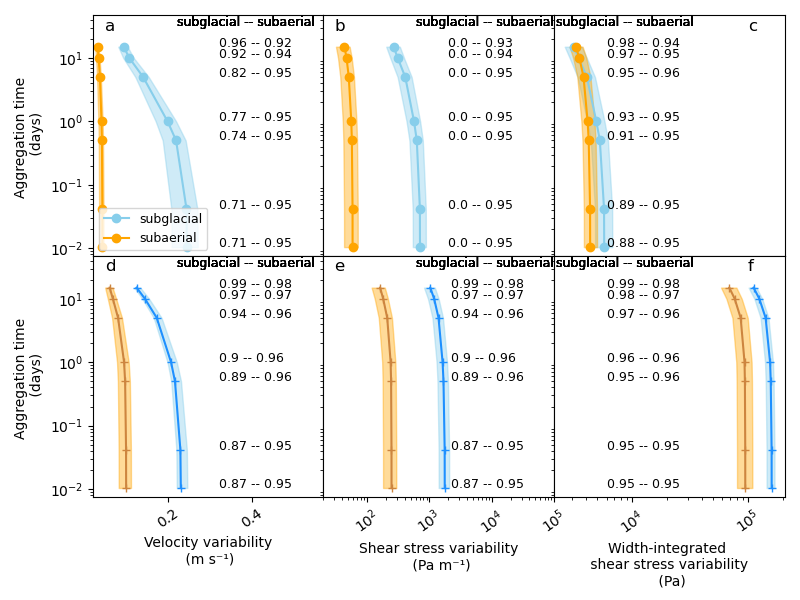
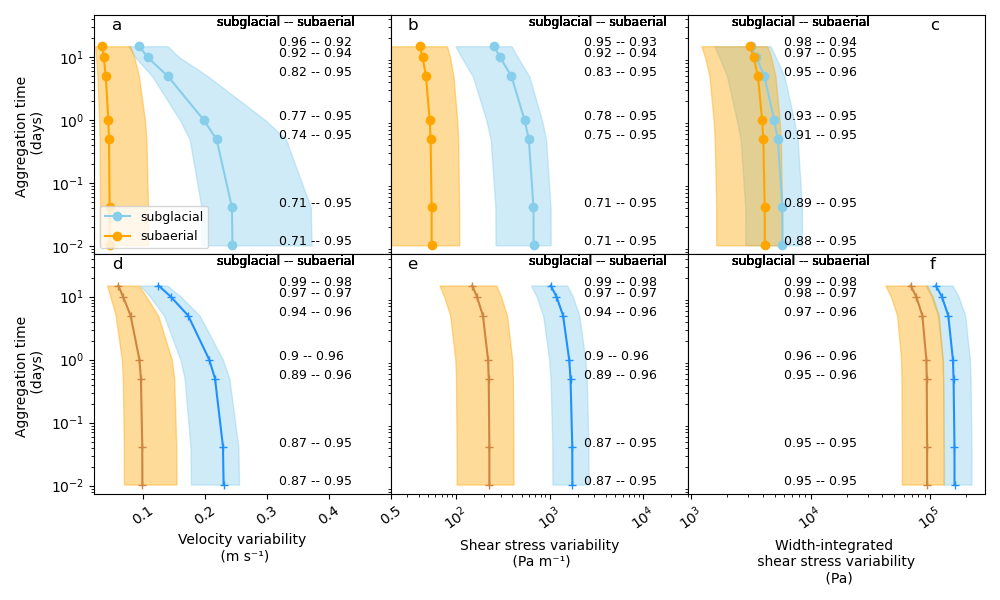
more small changes

Changed region(s): [[0.0, 0.03, 1.0, 0.99]]

diff --git a/Delaneyetal2023b.tex b/Delaneyetal2023b.tex
@@ -397,8 +397,7 @@ Yet, a range of width-integrated shear stress can occur at a given discharge (Fi
   \centering
     \includegraphics[width=0.9\linewidth]{Fig4.png}
     \caption{Variance (measured by the standard deviation) in water velocity, shear stress, and total shear stress for different time aggregations across the range of subglacial and subaerial channel shapes and friction factors. 
-    %The subglacial (blue) and subaerial (orange) systems are distinguished as are \alpine{} (a-c) and \icesheet{} (d-f).
-      Shaded areas denote the $5^{\mathrm{th}}$ and $95^{\mathrm{th}}$ quantiles of the $100$ parameter combinations tested for each of the systems (Section~\ref{sect:imp}).
+      Shaded areas denote the minimum and maximum of the $100$ parameter combinations tested for each of the systems (Section~\ref{sect:imp}).
       Solid lines denote  mean values.
       Time intervals shown with markers denote $15$\,\unit{min}, $1$\,\unit{hr}, $12$\,\unit{hr}, $1$\,\unit{d}, $5$\,\unit{d}, $10$\,\unit{d}, and $15$\,\unit{d} aggregation periods.
       Text in columns shows rank correlation between the variable and sediment discharge for the corresponding time period for the subglacial (right column) and subaerial (left column) channels.
@@ -479,7 +478,7 @@ may compound  the already stochastic nature of erosion and deposition in fluvial
 Over time scales longer than days to weeks, the glacier's sediment transport capacity reacts to the ice thickness, controlling the channel closure rate, and the surface slope of the glacier \citep[Figure~\ref{fig:multi_run}, ~ Section~\ref{sect:sub_mode}; ][]{rothlisberger1972,shreve1972,stevens2022}.
 If the glacier is in a supply-limited state, often assumed in landscape evolution models, then the sediment discharge record also represents additional processes of sediment availability and bedrock erosion from  water pressure variations and sliding  \citep[e.g.][]{iverson2012,herman2015,delaney2023}.
 This multitude of processes lies in contrast to most subaerial systems, where transport capacity typically increases with water discharge and hydraulic gradient, and the hydraulic gradient generally remains stable over time scales ranging from years to millennia \citep[Section~\ref{sect:fluv}; e.g.][]{muller1968,whipple1999,wickert2019}.
-The stronger link between sediment export and hydrological forcing in subaerial channels means that variations in sediment transport records can be more easily attributed to climatic conditions than in  subglacial systems
+The stronger link between sediment transport capacity and hydrological forcing in subaerial channels means that variations in sediment transport records can be more easily attributed to climatic conditions than in  subglacial systems.
 
 
 
